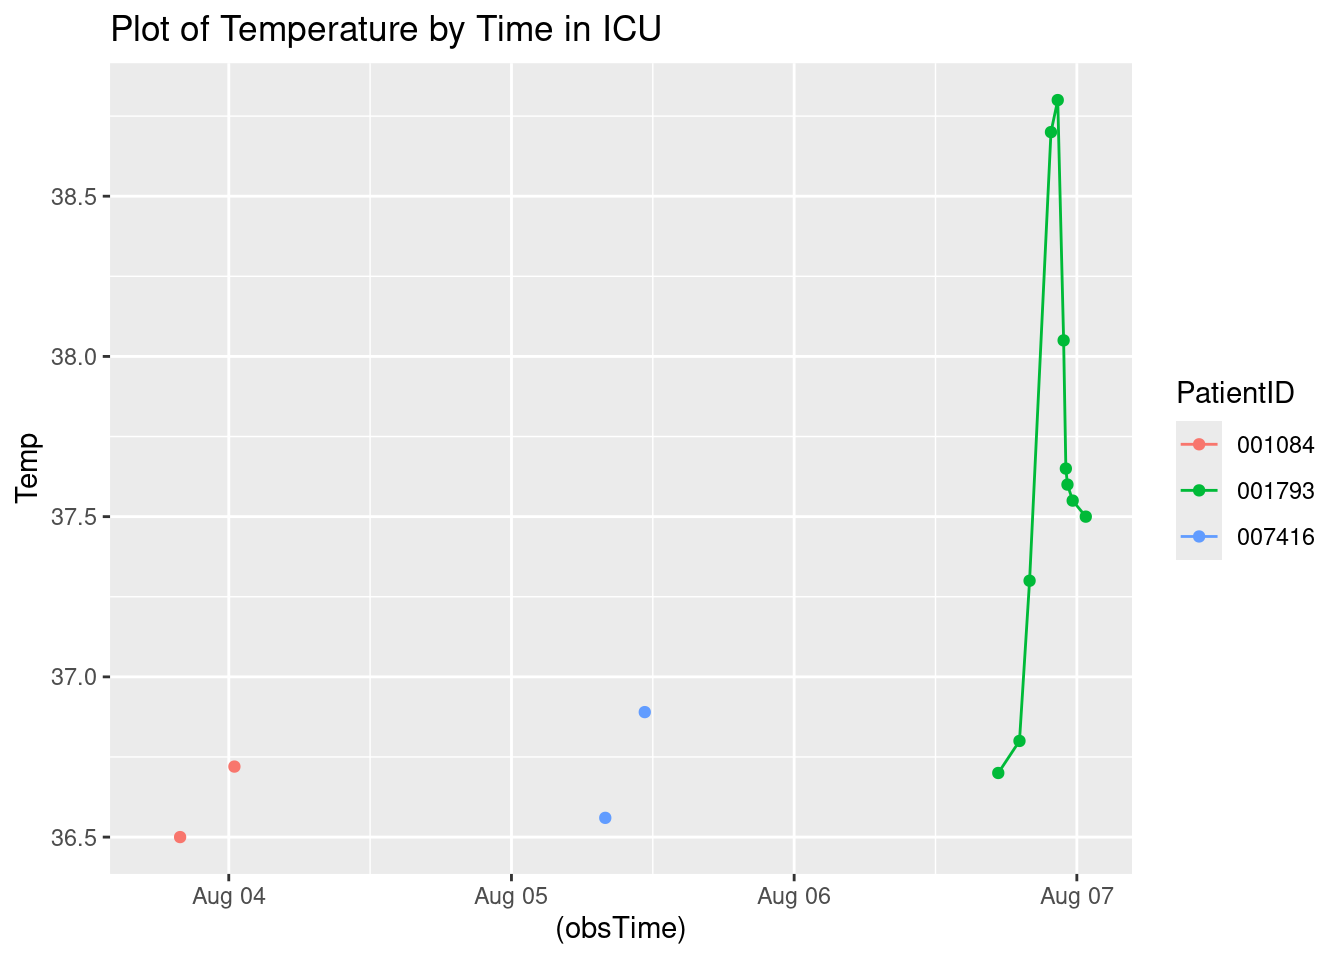
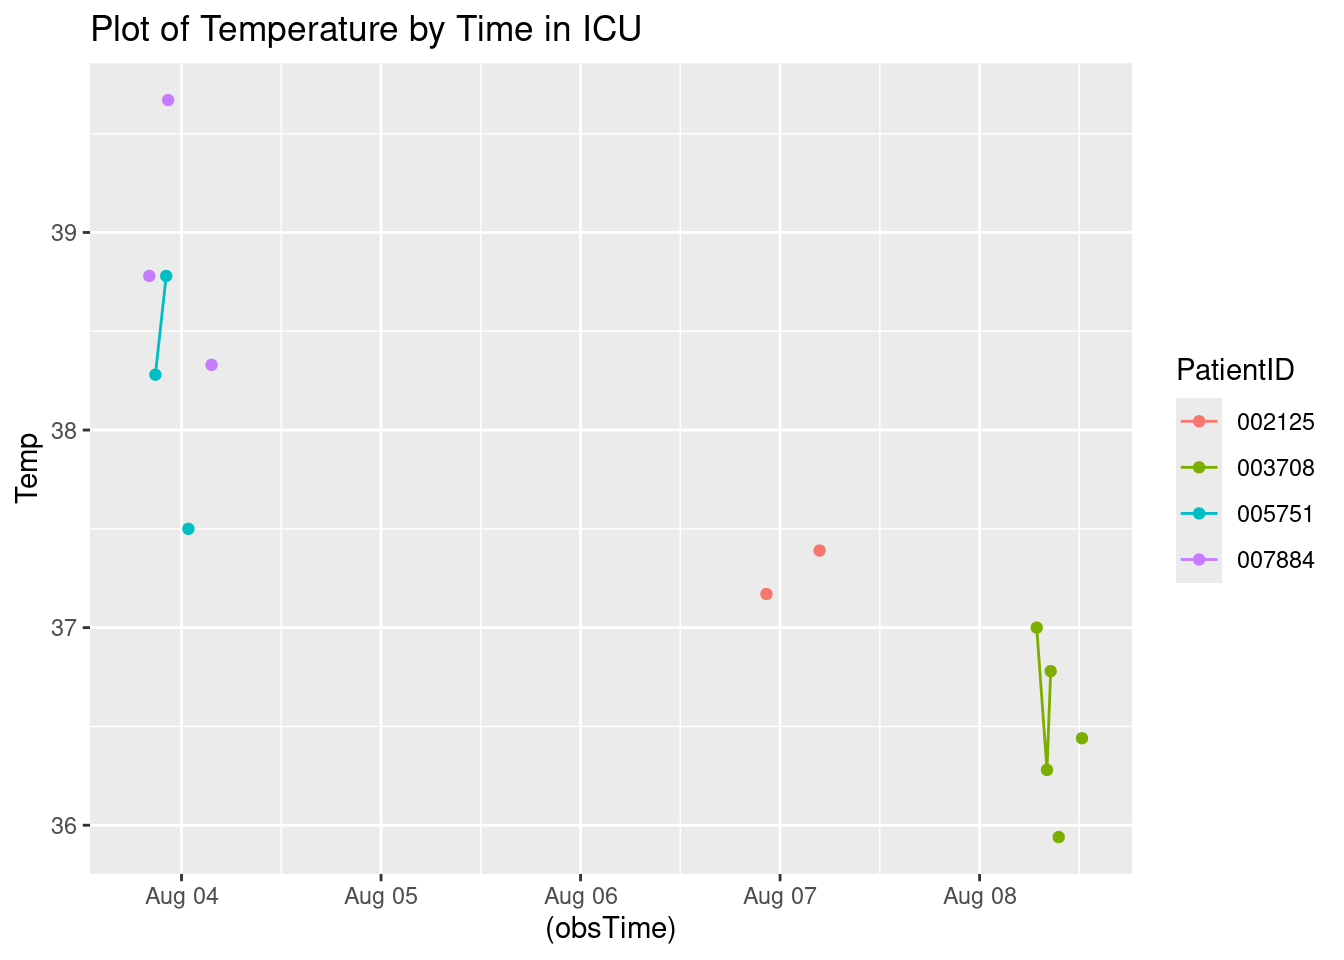
Updated report

diff --git a/A7.html b/A7.html
@@ -116,7 +116,7 @@ pre > code.sourceCode > span > a:first-child::before { text-decoration: underlin
 </div>
 <div class="sourceCode cell-code" id="cb4"><pre class="sourceCode r code-with-copy"><code class="sourceCode r"><span id="cb4-1"><a href="#cb4-1" aria-hidden="true" tabindex="-1"></a><span class="fu">toc</span>()</span></code><button title="Copy to Clipboard" class="code-copy-button"><i class="bi"></i></button></pre></div>
 <div class="cell-output cell-output-stdout">
-<pre><code>26.108 sec elapsed</code></pre>
+<pre><code>28.671 sec elapsed</code></pre>
 </div>
 <div class="sourceCode cell-code" id="cb6"><pre class="sourceCode r code-with-copy"><code class="sourceCode r"><span id="cb6-1"><a href="#cb6-1" aria-hidden="true" tabindex="-1"></a><span class="fu">tic</span>()</span>
 <span id="cb6-2"><a href="#cb6-2" aria-hidden="true" tabindex="-1"></a>test1<span class="ot">=</span><span class="fu">makeSepsisDataset</span>(<span class="at">n=</span><span class="dv">50</span>,<span class="at">read_fn =</span> <span class="st">"read_delim"</span>)</span>
@@ -126,7 +126,7 @@ pre > code.sourceCode > span > a:first-child::before { text-decoration: underlin
 </div>
 <div class="sourceCode cell-code" id="cb8"><pre class="sourceCode r code-with-copy"><code class="sourceCode r"><span id="cb8-1"><a href="#cb8-1" aria-hidden="true" tabindex="-1"></a><span class="fu">toc</span>()</span></code><button title="Copy to Clipboard" class="code-copy-button"><i class="bi"></i></button></pre></div>
 <div class="cell-output cell-output-stdout">
-<pre><code>21.001 sec elapsed</code></pre>
+<pre><code>21.411 sec elapsed</code></pre>
 </div>
 <div class="sourceCode cell-code" id="cb10"><pre class="sourceCode r code-with-copy"><code class="sourceCode r"><span id="cb10-1"><a href="#cb10-1" aria-hidden="true" tabindex="-1"></a><span class="co"># n=100</span></span>
 <span id="cb10-2"><a href="#cb10-2" aria-hidden="true" tabindex="-1"></a><span class="fu">tic</span>()</span>
@@ -137,7 +137,7 @@ pre > code.sourceCode > span > a:first-child::before { text-decoration: underlin
 </div>
 <div class="sourceCode cell-code" id="cb12"><pre class="sourceCode r code-with-copy"><code class="sourceCode r"><span id="cb12-1"><a href="#cb12-1" aria-hidden="true" tabindex="-1"></a><span class="fu">toc</span>()</span></code><button title="Copy to Clipboard" class="code-copy-button"><i class="bi"></i></button></pre></div>
 <div class="cell-output cell-output-stdout">
-<pre><code>45.113 sec elapsed</code></pre>
+<pre><code>54.42 sec elapsed</code></pre>
 </div>
 <div class="sourceCode cell-code" id="cb14"><pre class="sourceCode r code-with-copy"><code class="sourceCode r"><span id="cb14-1"><a href="#cb14-1" aria-hidden="true" tabindex="-1"></a><span class="fu">tic</span>()</span>
 <span id="cb14-2"><a href="#cb14-2" aria-hidden="true" tabindex="-1"></a>test1<span class="ot">=</span><span class="fu">makeSepsisDataset</span>(<span class="at">n=</span><span class="dv">100</span>,<span class="at">read_fn =</span> <span class="st">"read_delim"</span>)</span>
@@ -147,7 +147,7 @@ pre > code.sourceCode > span > a:first-child::before { text-decoration: underlin
 </div>
 <div class="sourceCode cell-code" id="cb16"><pre class="sourceCode r code-with-copy"><code class="sourceCode r"><span id="cb16-1"><a href="#cb16-1" aria-hidden="true" tabindex="-1"></a><span class="fu">toc</span>()</span></code><button title="Copy to Clipboard" class="code-copy-button"><i class="bi"></i></button></pre></div>
 <div class="cell-output cell-output-stdout">
-<pre><code>41.329 sec elapsed</code></pre>
+<pre><code>42.076 sec elapsed</code></pre>
 </div>
 <div class="sourceCode cell-code" id="cb18"><pre class="sourceCode r code-with-copy"><code class="sourceCode r"><span id="cb18-1"><a href="#cb18-1" aria-hidden="true" tabindex="-1"></a><span class="co"># n=500</span></span>
 <span id="cb18-2"><a href="#cb18-2" aria-hidden="true" tabindex="-1"></a><span class="fu">tic</span>()</span>
@@ -158,7 +158,7 @@ pre > code.sourceCode > span > a:first-child::before { text-decoration: underlin
 </div>
 <div class="sourceCode cell-code" id="cb20"><pre class="sourceCode r code-with-copy"><code class="sourceCode r"><span id="cb20-1"><a href="#cb20-1" aria-hidden="true" tabindex="-1"></a><span class="fu">toc</span>()</span></code><button title="Copy to Clipboard" class="code-copy-button"><i class="bi"></i></button></pre></div>
 <div class="cell-output cell-output-stdout">
-<pre><code>232.843 sec elapsed</code></pre>
+<pre><code>269.948 sec elapsed</code></pre>
 </div>
 <div class="sourceCode cell-code" id="cb22"><pre class="sourceCode r code-with-copy"><code class="sourceCode r"><span id="cb22-1"><a href="#cb22-1" aria-hidden="true" tabindex="-1"></a><span class="fu">tic</span>()</span>
 <span id="cb22-2"><a href="#cb22-2" aria-hidden="true" tabindex="-1"></a>test1<span class="ot">=</span><span class="fu">makeSepsisDataset</span>(<span class="at">n=</span><span class="dv">500</span>,<span class="at">read_fn =</span> <span class="st">"read_delim"</span>)</span>
@@ -168,7 +168,7 @@ pre > code.sourceCode > span > a:first-child::before { text-decoration: underlin
 </div>
 <div class="sourceCode cell-code" id="cb24"><pre class="sourceCode r code-with-copy"><code class="sourceCode r"><span id="cb24-1"><a href="#cb24-1" aria-hidden="true" tabindex="-1"></a><span class="fu">toc</span>()</span></code><button title="Copy to Clipboard" class="code-copy-button"><i class="bi"></i></button></pre></div>
 <div class="cell-output cell-output-stdout">
-<pre><code>207.244 sec elapsed</code></pre>
+<pre><code>213.125 sec elapsed</code></pre>
 </div>
 </div>
 <p><strong>Task 3</strong></p>
@@ -194,7 +194,7 @@ pre > code.sourceCode > span > a:first-child::before { text-decoration: underlin
 <span id="cb28-4"><a href="#cb28-4" aria-hidden="true" tabindex="-1"></a></span>
 <span id="cb28-5"><a href="#cb28-5" aria-hidden="true" tabindex="-1"></a><span class="fu">Sys.time</span>()</span></code><button title="Copy to Clipboard" class="code-copy-button"><i class="bi"></i></button></pre></div>
 <div class="cell-output cell-output-stdout">
-<pre><code>[1] "2024-08-03 14:28:54 UTC"</code></pre>
+<pre><code>[1] "2024-08-03 15:30:33 UTC"</code></pre>
 </div>
 <div class="sourceCode cell-code" id="cb30"><pre class="sourceCode r code-with-copy"><code class="sourceCode r"><span id="cb30-1"><a href="#cb30-1" aria-hidden="true" tabindex="-1"></a>dfnew <span class="ot">&lt;-</span> df <span class="sc">%&gt;%</span></span>
 <span id="cb30-2"><a href="#cb30-2" aria-hidden="true" tabindex="-1"></a>  <span class="fu">subset</span>(SepsisLabel<span class="sc">==</span><span class="dv">1</span>)</span>
@@ -223,31 +223,40 @@ pre > code.sourceCode > span > a:first-child::before { text-decoration: underlin
 </thead>
 <tbody>
 <tr class="odd">
-<td style="text-align: left;">001084</td>
-<td style="text-align: right;">12</td>
-<td style="text-align: right;">75</td>
+<td style="text-align: left;">002125</td>
+<td style="text-align: right;">88</td>
+<td style="text-align: right;">120</td>
 <td style="text-align: right;">NA</td>
-<td style="text-align: right;">17</td>
+<td style="text-align: right;">23</td>
 <td style="text-align: right;">1</td>
-<td style="text-align: left;">2024-08-04 01:09:09</td>
+<td style="text-align: left;">2024-08-07 06:57:05</td>
 </tr>
 <tr class="even">
-<td style="text-align: left;">001793</td>
-<td style="text-align: right;">83</td>
-<td style="text-align: right;">130</td>
-<td style="text-align: right;">37.5</td>
-<td style="text-align: right;">20</td>
+<td style="text-align: left;">003708</td>
+<td style="text-align: right;">120</td>
+<td style="text-align: right;">77</td>
+<td style="text-align: right;">NA</td>
+<td style="text-align: right;">22</td>
 <td style="text-align: right;">1</td>
-<td style="text-align: left;">2024-08-07 00:45:31</td>
+<td style="text-align: left;">2024-08-08 12:39:49</td>
 </tr>
 <tr class="odd">
-<td style="text-align: left;">007416</td>
-<td style="text-align: right;">46</td>
-<td style="text-align: right;">85</td>
+<td style="text-align: left;">005751</td>
+<td style="text-align: right;">13</td>
+<td style="text-align: right;">50</td>
 <td style="text-align: right;">NA</td>
-<td style="text-align: right;">42</td>
+<td style="text-align: right;">15</td>
 <td style="text-align: right;">1</td>
-<td style="text-align: left;">2024-08-05 12:16:42</td>
+<td style="text-align: left;">2024-08-04 03:55:58</td>
+</tr>
+<tr class="even">
+<td style="text-align: left;">007884</td>
+<td style="text-align: right;">17</td>
+<td style="text-align: right;">91</td>
+<td style="text-align: right;">NA</td>
+<td style="text-align: right;">24</td>
+<td style="text-align: right;">1</td>
+<td style="text-align: left;">2024-08-04 06:05:41</td>
 </tr>
 </tbody>
 </table>
